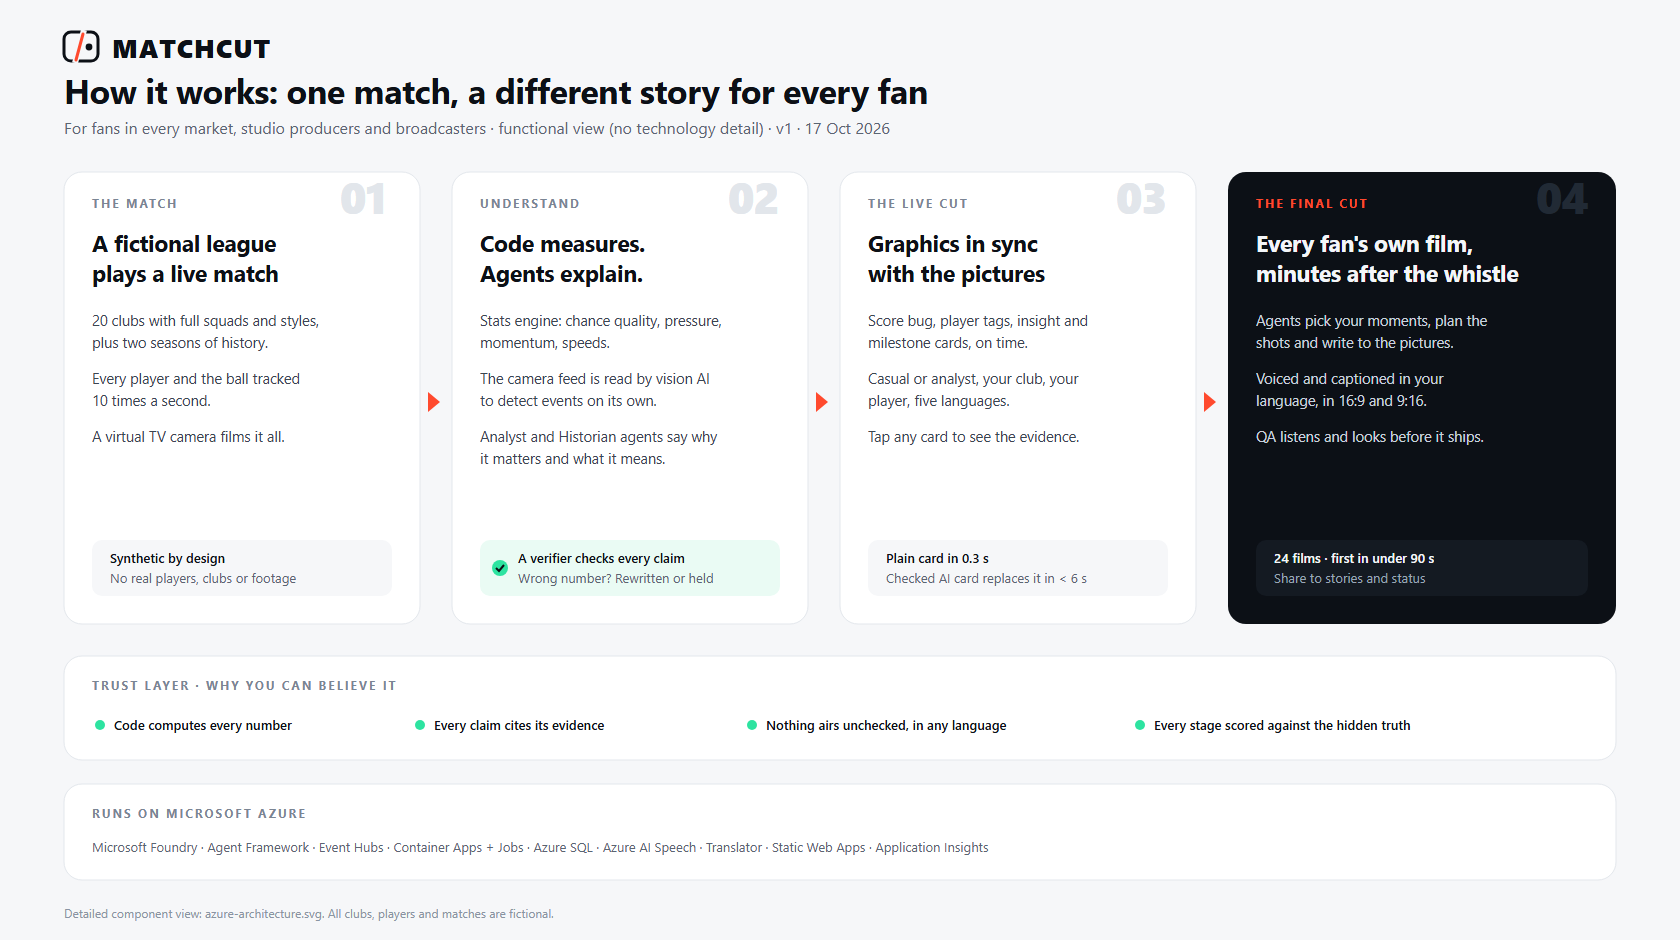
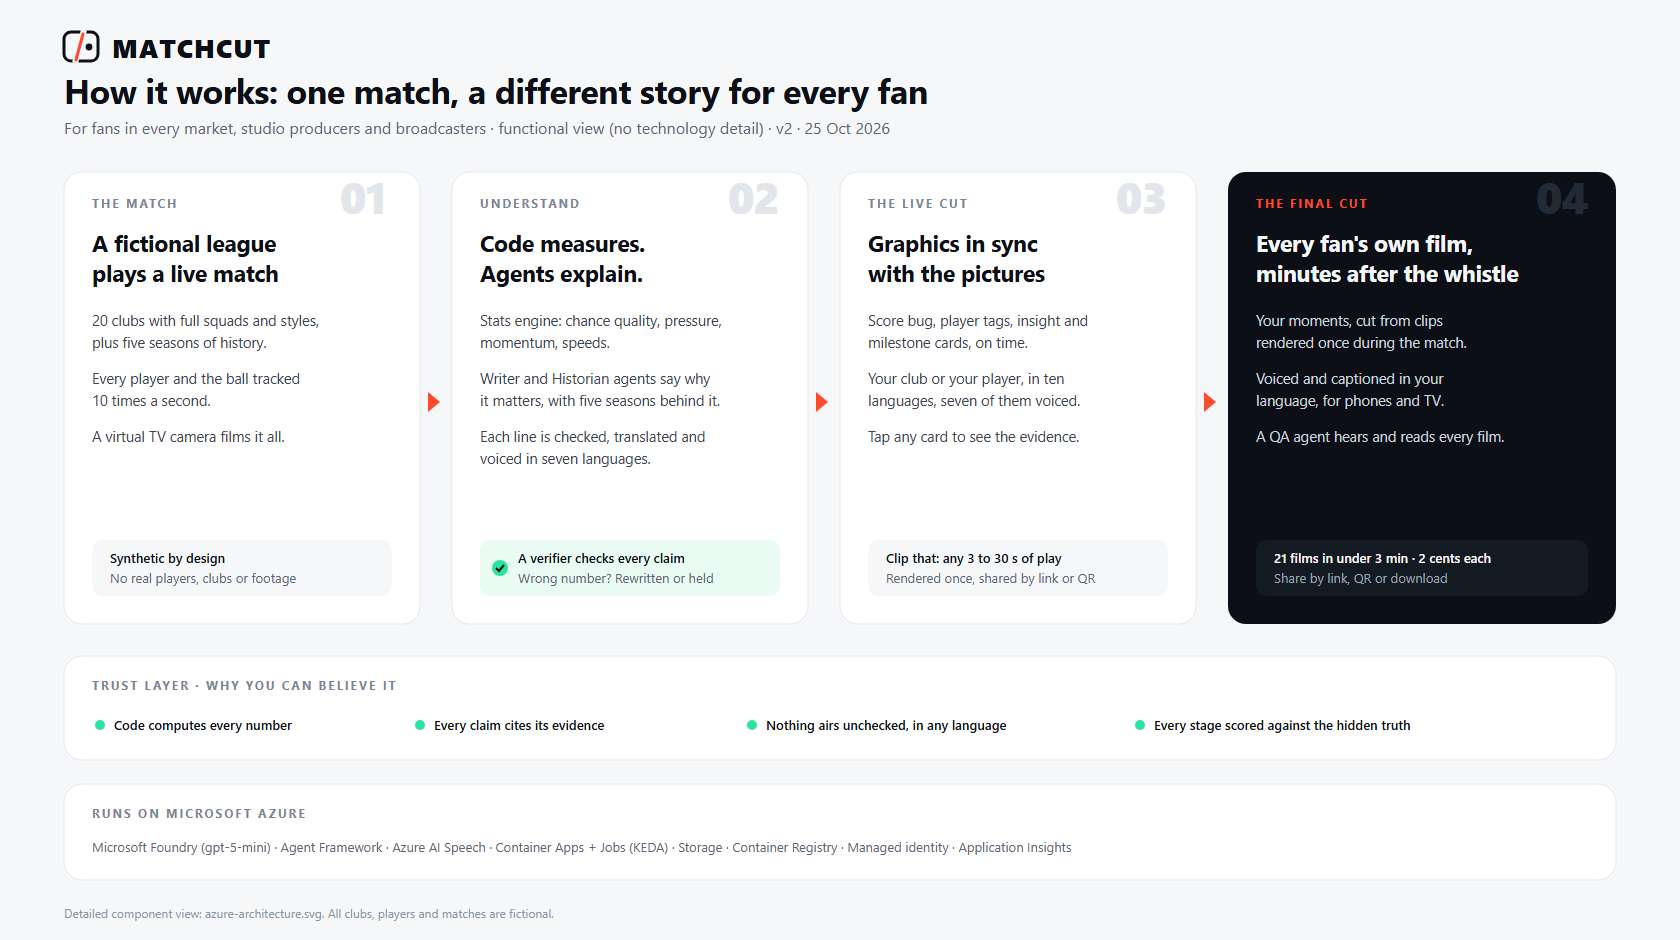
Docs: concept diagram v2 as built with measured figures; ADR-0015 and status record the Azure runs
- Concept: five seasons of history, the agents and League Memory instead of a vision service that was not built, ten languages with seven voiced, Clip that and sharing, the QA agent, "21 films in under 3 min · 2 cents each" (measured on Azure), and only the Azure services in use
- ADR-0015: Portuguese recogniser capacity and the handling, the final run (773cda4: 21 films, all in 165 s, US$0.022 each, 20 of 21 passed)
- status.md: handoff for E

diff --git a/status.md b/status.md
@@ -1,6 +1,6 @@
 # Matchcut status
 
-**Updated:** Sun 25 Oct 2026 · **Phase:** D2 and D3 done, releasing eaf5514; E (demo and submission) waits for Malik. Branch `d5/fan-cuts` (PR #10, Malik merges)
+**Updated:** Sun 25 Oct 2026, night · **Phase:** D2 and D3 done and live (773cda4); E (demo and submission) waits for Malik. Branch `d5/fan-cuts` (PR #10, Malik merges)
 
 ## Done
 - **Design:** functional and Azure component diagrams (`docs/architecture`), brand system and board (`docs/brand`), design tokens (`packages/design-tokens/tokens.json`).
@@ -14,6 +14,13 @@
   - Agent-based match engine: 10 Hz tracking, offside line, low block, pressing, tackles, fouls, cards, substitutions, set pieces, hidden tactical change, true shot probabilities.
   - Realism report (`reports/realism.md`).
 - **Quality:** 24 tests passing, 88% coverage; ruff and pyright clean.
+
+## Resume here (handoff, 25 Oct, night)
+- **Live on Azure: 773cda4** (Studio revision 11, job on 773cda4, 20 replicas at most, one warm Studio replica). Recap Factory measured on Azure: 21 films, first 54 to 59 s after the run starts, all in about 160 s, US$0.022 a film at list price, 20 of 21 pass QA (the one flag: two short Naija calls the recogniser heard no words in). Moment clips: 27 of 28 pass (the flag: the Nigerian English "is in on goal" heard as "Izinango").
+- **Fixed today because the QA agent caught them on Azure:** loudness on short clips (two-pass master), throttling (retries with Retry-After and jitter), a fan's film voicing a call its clip never shows (voices and call lines now stay inside their clip), names split into words on short lines (voice check under 3 words), Portuguese recogniser capacity (alternate pt-PT and pt-BR; "not checked yet" instead of "flagged").
+- **Tested and reverted:** 24 replicas (all 21 films at once) made Azure Speech throttle the QA checks; 236 s against 158 s. The job stays at 20.
+- **Docs:** architecture v2.0 as built (diagram, flow, principles), concept diagram v2 with measured figures, ADR-0014 (QA agent), ADR-0015 (Recap Factory, with the Azure runs).
+- **Next: E (demo video under 2 minutes, submission text, testing instructions with the access code, repo public), waiting for Malik.** The Factory allows 6 runs a day (UTC) with 30 minutes between runs; plan the demo recording around that.
 
 ## Resume here (handoff, 25 Oct)
 - **D2 QA agent, done:** every moment film is mixed per language on the render job and checked there (Azure AI Speech hears it, gpt-5-mini reads its captions, ffmpeg measures loudness; code judges): `{key}.{lang}.qa.json` beside each film; the reel shows Checked or Flagged with what failed. ADR-0014. The listening window now follows each line's voice length (a fixed 6 s window marked the tail of a 10 s line unheard).

diff --git a/docs/adr/0015-recap-factory.md b/docs/adr/0015-recap-factory.md
@@ -16,6 +16,8 @@
 ## Consequences
 - Measured on Azure on 25 Oct (run f-ff39d73ed74f, 20 replicas): the first of 21 films was ready 54 s after the run started (most of it the replicas starting), all 21 in 158 s; US$0.022 a film at list price (compute US$0.004, QA US$0.018). Locally the same 80.7 s film took 65 s.
 - The first run on Azure flagged all 7 of the away club's films, and rightly: a goal call that does not fit a 6.5 s conceded clip was left out of the clip but voiced in the fan's film, over the next moment's pictures and with no line on screen. Voices and lines now stay inside the clip they start in, so a fan's film says exactly what its clips show; the next run passed 20 of 21 (the last flag: the recogniser heard no words in two short Naija calls).
+- Portuguese is the AI service's weak spot: Azure Speech fast transcription answered 429 "Resource Exhausted" for European or Brazilian Portuguese, one or the other, for hours at a time in our region, even with nothing else running. The QA agent now moves to the other Portuguese recogniser on each retry, and a film that no recogniser can hear is shown as not checked yet rather than flagged; the pass rate counts only films the agent judged.
+- Release 773cda4, run f-c4f713c8f14c (25 Oct, 21:30 UTC): 21 films, the first 59 s after the run started, all in 165 s; US$0.022 a film; 20 of 21 passed. The one flag is the away fans' Naija film, where the recogniser heard no words in two short calls.
 - More replicas is not faster here: with 24 allowed, all 21 films started together, Azure Speech throttled the QA agent's checks (it waits them out, so nothing failed) and the run took 236 s at twice the compute per film. The job stays at 20.
 - The match in the demo has two goals and no big chances or great saves (its best miss was 0.13 xG), so its run is 21 films: both clubs and the scorer, in seven languages. The other 35 players get no film rather than an empty one.
 - Replicas are sized for frame rendering (4 vCPU, 8 GiB) and are oversized for joining; a second, smaller job would cut compute cost per film by about three quarters if runs became frequent.
